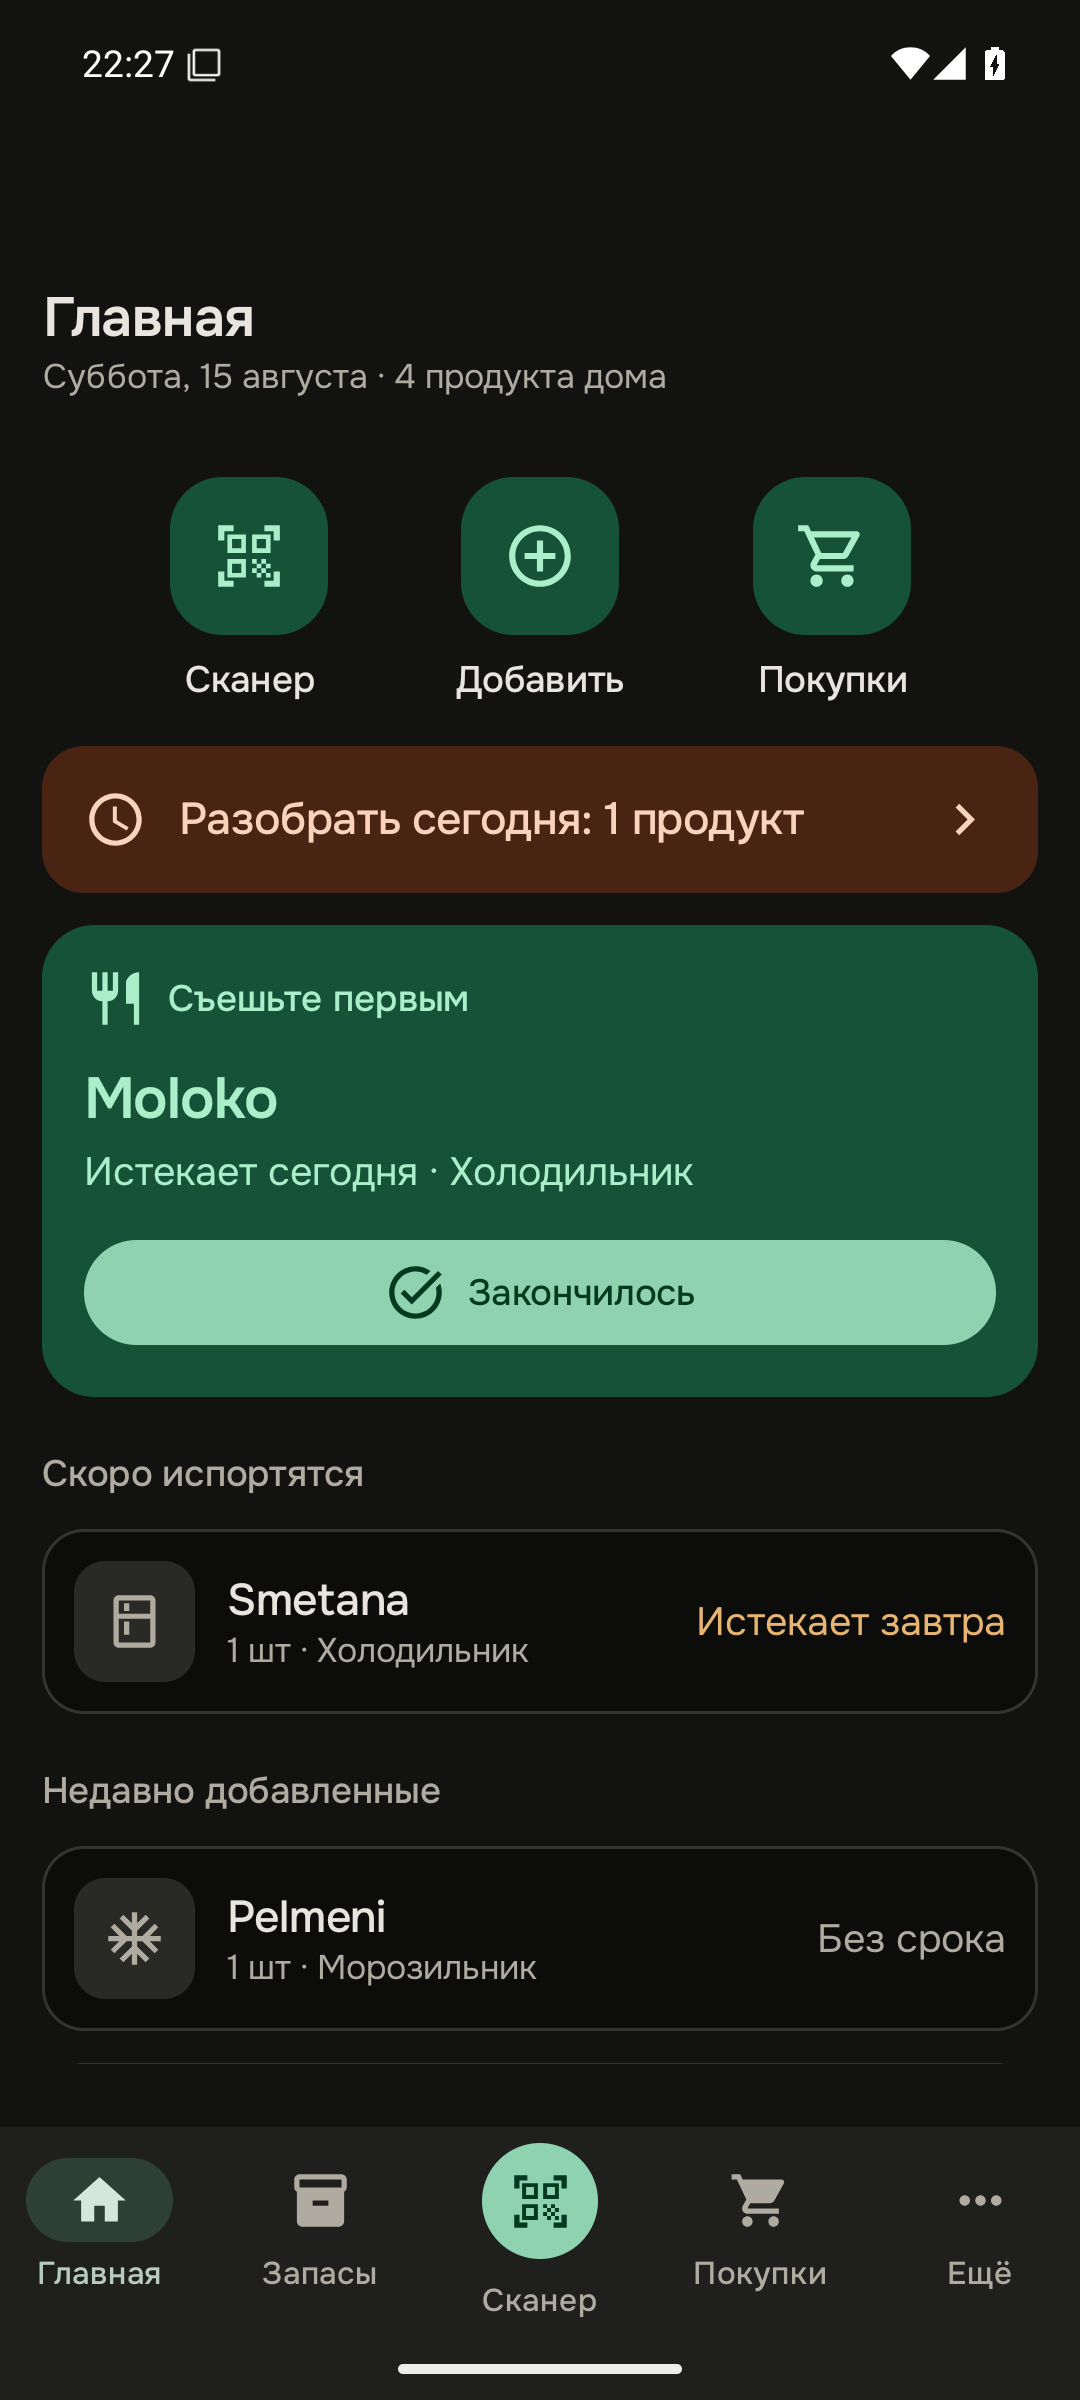
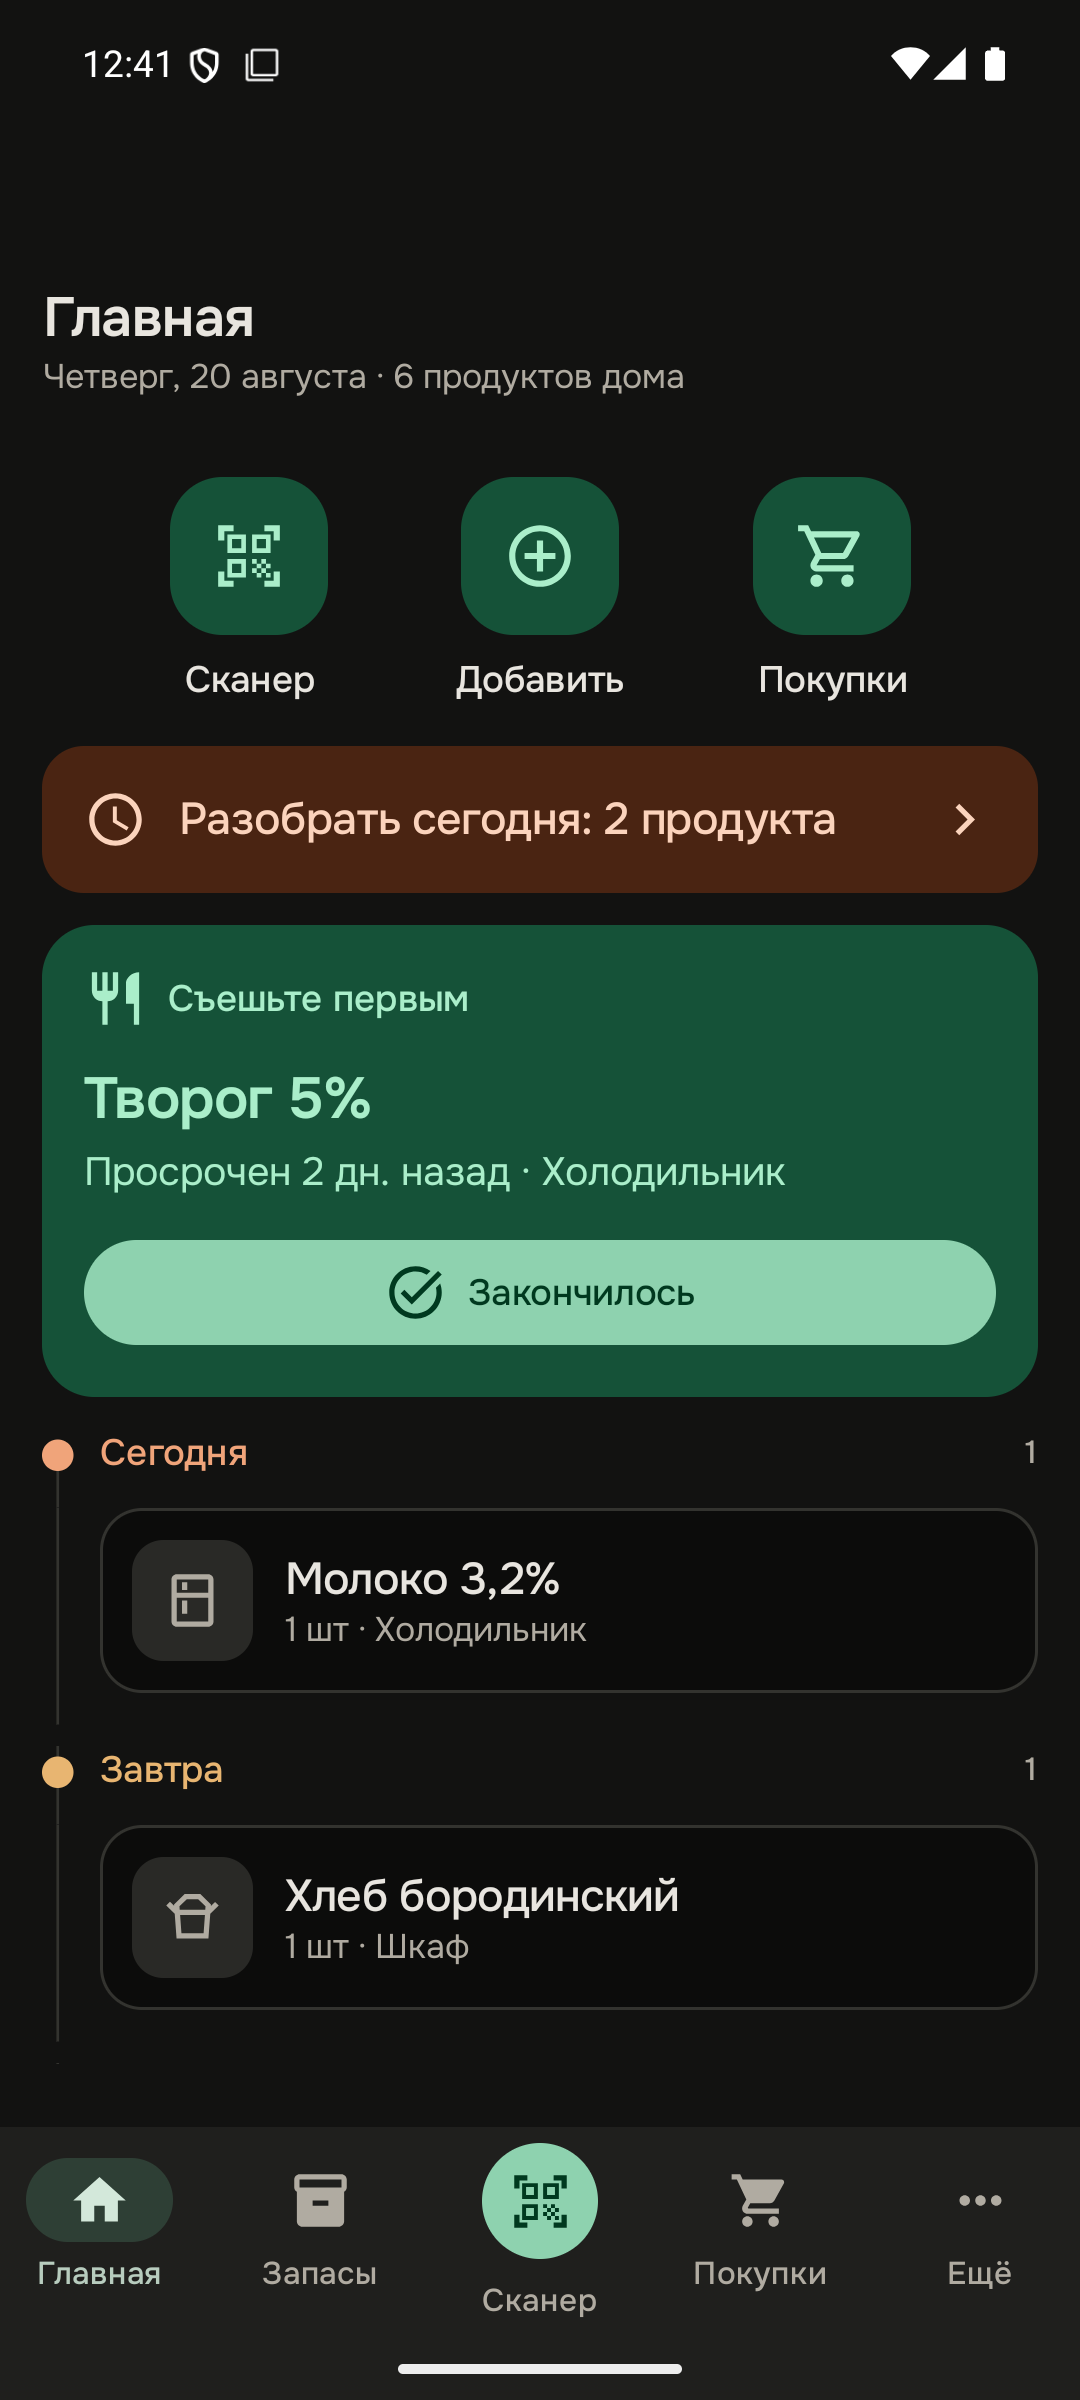
Довести ось до крупного шрифта и переснять скриншоты
Три проверки, которые я сам записал как незакрытые после переноса
направления «Срок».

Тёмная тема с осью — в порядке: рельс виден, узлы читаются, карточки
отделены волосяной линией.

Крупный шрифт — нет. Плашка срока измеряется раньше названия и берёт
сколько хочет, поэтому названию достаётся остаток: при масштабе 1.3 в
нём помещалось только многоточие, а при 2.0 строка превращалась в
красную полосу вообще без названия продукта. Выше стандартного размера
плашка теперь встаёт под название, а не рядом. Порог взят по тому, что
устройство реально делает, а не по вкусу: 1.3 уже ломался.

Заодно просроченная плашка внутри оси сократилась до «2 дн. назад» —
слово «Просрочен» дословно повторяло заголовок «Просрочено» и было
самой широкой частью самой широкой подписи в приложении. Из-за него
обрезалось название: «Творог …».

Флаги показа строки сведены в RowDisplay: и InventoryRowCard, и StockRow
перебрали порог detekt по числу параметров, а все три флага отвечают на
один и тот же вопрос — что уже сказал заголовок над строкой.

Пять скриншотов пересняты на данных, разложенных по всей оси:
просрочено, сегодня, завтра, на этой неделе. Аналитика и продукты не
менялись.

Гейты: spotless, detekt, unit, lint — зелено; connectedDebugAndroidTest
20/20. Масштабы 1.0, 1.3 и 2.0 проверены живьём, обе темы тоже.

diff --git a/app/src/main/java/com/eatbefore/feature/common/InventoryRowCard.kt b/app/src/main/java/com/eatbefore/feature/common/InventoryRowCard.kt
@@ -38,6 +38,7 @@ import androidx.compose.ui.draw.clip
 import androidx.compose.ui.graphics.vector.ImageVector
 import androidx.compose.ui.hapticfeedback.HapticFeedbackType
 import androidx.compose.ui.layout.ContentScale
+import androidx.compose.ui.platform.LocalDensity
 import androidx.compose.ui.platform.LocalHapticFeedback
 import androidx.compose.ui.res.stringResource
 import androidx.compose.ui.text.style.TextOverflow
@@ -59,6 +60,22 @@ private fun StorageType.icon(): ImageVector = when (this) {
 }
 
 /**
+ * What a row leaves out, or says more briefly.
+ *
+ * Every flag here answers the same question — what did the heading above this row already
+ * say? — so they travel together rather than as three more arguments on a call that the
+ * complexity budget had already run out of room for.
+ */
+data class RowDisplay(
+    /** Off when one place is already chosen, and the chip above the list names it. */
+    val showLocation: Boolean = true,
+    /** Off under a heading that says the whole of it — see [headingSaysItAll]. */
+    val showExpiry: Boolean = true,
+    /** See [com.eatbefore.core.designsystem.component.ExpiryLabel]'s own parameter. */
+    val conciseExpiry: Boolean = false,
+)
+
+/**
  * A tappable card summarizing one inventory batch.
  *
  * Passing [onQuickAction] adds a long-press menu. Writing off what you just ate is the
@@ -71,17 +88,17 @@ fun InventoryRowCard(
     onClick: () -> Unit,
     modifier: Modifier = Modifier,
     onQuickAction: ((QuickAction) -> Unit)? = null,
-    showLocation: Boolean = true,
-    /**
-     * Off where the row sits under a heading that already says the same thing — see
-     * [com.eatbefore.feature.common.headingSaysItAll]. The label is wide, and on a phone
-     * it was taking the width the product's own place needed.
-     */
-    showExpiry: Boolean = true,
+    display: RowDisplay = RowDisplay(),
     selected: Boolean? = null,
 ) {
     var menuOpen by remember { mutableStateOf(false) }
     val haptics = LocalHapticFeedback.current
+
+    // At the largest system font sizes the expiry label and the product's name cannot
+    // both fit on one line, and the label wins: it is measured before the name's weighted
+    // column, so at a scale of 2.0 the row showed a full-width red slab and no name at
+    // all. Above 1.5 the label moves under the name instead of beside it.
+    val stackExpiry = LocalDensity.current.fontScale >= STACK_EXPIRY_FONT_SCALE
 
     // Crossing between the plain and the ticked state rather than swapping: entering
     // selection mode recolours every visible row at once, and twenty simultaneous cuts read
@@ -175,16 +192,28 @@ fun InventoryRowCard(
                     Text(
                         // The place is dropped when the list is already grouped by it —
                         // repeating the group heading on every one of its rows is noise.
-                        text = if (showLocation) "$amount · $location" else amount,
+                        text = if (display.showLocation) "$amount · $location" else amount,
                         style = MaterialTheme.typography.bodySmall,
                         color = MaterialTheme.colorScheme.onSurfaceVariant,
                         maxLines = 1,
                         overflow = TextOverflow.Ellipsis,
                     )
                 }
+                if (display.showExpiry && stackExpiry) {
+                    ExpiryLabel(
+                        status = row.expiryStatus,
+                        remainingDays = row.remainingDays,
+                        modifier = Modifier.padding(top = Dimens.spaceXs),
+                        concise = display.conciseExpiry,
+                    )
+                }
             }
-            if (showExpiry) {
-                ExpiryLabel(status = row.expiryStatus, remainingDays = row.remainingDays)
+            if (display.showExpiry && !stackExpiry) {
+                ExpiryLabel(
+                    status = row.expiryStatus,
+                    remainingDays = row.remainingDays,
+                    concise = display.conciseExpiry,
+                )
             }
 
             if (onQuickAction != null) {
@@ -254,3 +283,15 @@ private fun QuickActionItem(labelRes: Int, icon: ImageVector, onClick: () -> Uni
         onClick = onClick,
     )
 }
+
+/**
+ * System font scale at and above which the expiry label stops sharing a line with the
+ * product's name.
+ *
+ * Set from what the device actually does, not from taste. The label is measured before
+ * the name's weighted column and takes whatever it wants, so the name gets the remainder:
+ * at 1.3 that remainder was wide enough for an ellipsis and nothing else, and at 2.0 the
+ * row was a full-width red slab with no name on it at all. Anything above the default
+ * therefore stops trying to fit both on one line.
+ */
+private const val STACK_EXPIRY_FONT_SCALE = 1.2f

diff --git a/app/src/main/java/com/eatbefore/feature/inventory/InventoryScreen.kt b/app/src/main/java/com/eatbefore/feature/inventory/InventoryScreen.kt
@@ -59,6 +59,7 @@ import com.eatbefore.core.designsystem.theme.Shapes
 import com.eatbefore.feature.common.InventoryRowCard
 import com.eatbefore.feature.common.InventoryRowUi
 import com.eatbefore.feature.common.QuickAction
+import com.eatbefore.feature.common.RowDisplay
 import com.eatbefore.feature.common.headingSaysItAll
 import com.eatbefore.feature.common.rememberQuickActionHandler
 import com.eatbefore.feature.common.timeline
@@ -263,6 +264,9 @@ fun InventoryScreen(
                                     // chosen, and then the chip says it.
                                     showLocation = state.selectedLocationId == null,
                                     showExpiry = !bucket.headingSaysItAll,
+                                    // The heading says "Expired"; the label only owes
+                                    // the number, and the word was costing the name.
+                                    conciseExpiry = true,
                                 ),
                             )
                         }
@@ -323,12 +327,8 @@ private fun SelectionBar(
  * One stock row, which means something different depending on the mode: normally a tap
  * opens the product, while a selection is running it ticks the row instead.
  */
-/**
- * What a row leaves out. Both flags depend on what the heading above it already said, so
- * they travel together rather than as two more arguments on an already long call.
- */
-private data class RowDisplay(val showLocation: Boolean = true, val showExpiry: Boolean = true)@Composable
 
+@Composable
 private fun StockRow(
     row: InventoryRowUi,
     selection: Set<Long>?,
@@ -340,7 +340,7 @@ private fun StockRow(
 ) {
     InventoryRowCard(
         modifier = modifier,
-        showExpiry = display.showExpiry,
+        display = display,
         row = row,
         onClick = {
             if (selection == null) onOpenBatch(row.batchId) else onToggle(row.batchId)
@@ -351,7 +351,6 @@ private fun StockRow(
         } else {
             null
         },
-        showLocation = display.showLocation,
         selected = selection?.contains(row.batchId),
     )
 }

diff --git a/app/src/main/java/com/eatbefore/core/designsystem/component/ExpiryLabel.kt b/app/src/main/java/com/eatbefore/core/designsystem/component/ExpiryLabel.kt
@@ -30,9 +30,21 @@ fun ExpiryLabel(
     status: ExpiryStatus,
     remainingDays: Long?,
     modifier: Modifier = Modifier,
+    /**
+     * Drops the state word from an expired batch, leaving the number: "2 days ago" rather
+     * than "Expired 2 days ago". For rows sitting under a heading that already reads
+     * "Expired" — the word was the widest part of the widest label in the app, and it was
+     * pushing the product's own name out of its row.
+     */
+    concise: Boolean = false,
 ) {
     val visual = status.toVisual()
-    val text = remainingText(remainingDays) ?: stringResource(R.string.status_no_date)
+    val text = when {
+        concise && remainingDays != null && remainingDays < 0 ->
+            stringResource(R.string.expired_days_ago_short, (-remainingDays).toInt())
+
+        else -> remainingText(remainingDays) ?: stringResource(R.string.status_no_date)
+    }
 
     if (visual.emphasis.isChip) {
         StatusChip(visual = visual, text = text, modifier = modifier)

diff --git a/app/src/main/java/com/eatbefore/feature/home/HomeScreen.kt b/app/src/main/java/com/eatbefore/feature/home/HomeScreen.kt
@@ -55,6 +55,7 @@ import com.eatbefore.core.designsystem.theme.Shapes
 import com.eatbefore.feature.common.InventoryRowCard
 import com.eatbefore.feature.common.InventoryRowUi
 import com.eatbefore.feature.common.QuickAction
+import com.eatbefore.feature.common.RowDisplay
 import com.eatbefore.feature.common.headingSaysItAll
 import com.eatbefore.feature.common.rememberQuickActionHandler
 import com.eatbefore.feature.common.timeline
@@ -192,7 +193,11 @@ fun HomeScreen(
                     row = row,
                     onClick = { onOpenBatch(row.batchId) },
                     onQuickAction = { onQuickAction(it, row.batchId) },
-                    showExpiry = !bucket.headingSaysItAll,
+                    display = RowDisplay(
+                        showExpiry = !bucket.headingSaysItAll,
+                        // The heading says "Expired"; the label only owes the number.
+                        conciseExpiry = true,
+                    ),
                 )
             }
         }

diff --git a/CHANGELOG.md b/CHANGELOG.md
@@ -60,6 +60,13 @@
   значением «Осталось 27 дн.».
 - **Добавление**: срок годности поднят из пятого поля в отдельный блок над количеством,
   и выбранная подсказка сразу разворачивается в дату — «через 3 дня» это 22 августа.
+- **Строка выдерживает крупный шрифт.** Плашка срока измеряется раньше названия и
+  забирает сколько хочет, поэтому названию доставался остаток: при масштабе 1.3 в нём
+  помещалось только многоточие, а при 2.0 строка превращалась в красную полосу вообще
+  без названия. Выше стандартного размера плашка встаёт под название, а не рядом.
+- **Просроченная плашка внутри оси стала короче** — «2 дн. назад» вместо «Просрочен
+  2 дн. назад». Слово повторяло заголовок «Просрочено» и было самой широкой частью
+  самой широкой подписи в приложении; из-за него обрезалось название продукта.
 - **Убрано:** раздел «Недавно добавленные» на главной. Список, упорядоченный по часам,
   которые никто не читает; каждая его строка теперь стоит на оси под тем днём, когда она
   кончится.
